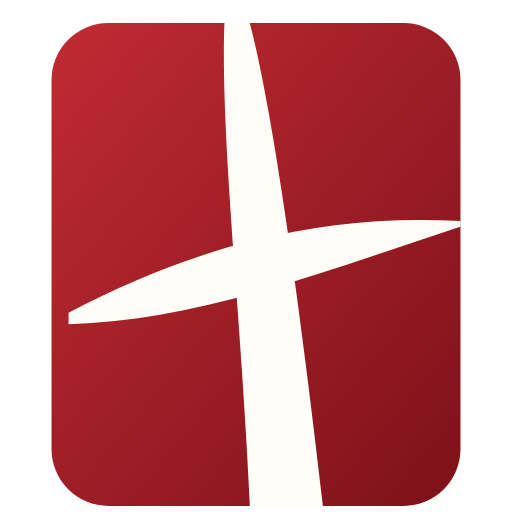
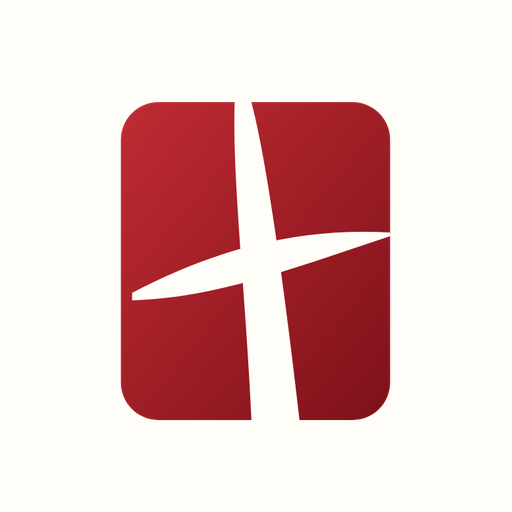
모두의 성경 1.0.17: 앱 아이콘 모두 새 모양으로

diff --git a/modu/sw.js b/modu/sw.js
@@ -2,7 +2,7 @@
    · 앱 껍데기(html·css·js·글꼴)는 판(version)마다 새 저장소에 담고 옛것은 지운다
    · 큰 자료(R2 의 성경·사전·지도·주석)는 한 번 받으면 오래 둔다 (자료 판이 바뀌면 주소가 바뀐다)
    · Supabase(로그인·메모)는 늘 네트워크 */
-var VERSION = '1.0.16';
+var VERSION = '1.0.17';
 var SHELL = 'modu-shell-' + VERSION, DATA = 'modu-data-v2';   /* v2: crossOrigin 없이 받아 둔 불투명 응답을 버린다 */
 var CORE = ['./', 'index.html', 'style.css', 'mobile.css', 'config.js', 'bridge.js', 'mobile.js', 'icon.png', 'manifest.webmanifest'];
 

diff --git a/modu/config.js b/modu/config.js
@@ -1,8 +1,8 @@
 window.MODU = {
- "version": "1.0.16",
+ "version": "1.0.17",
  "title": "2026 모두의 성경",
  "dataBase": "https://pub-0dda7b52b67649e18ba5569a006c564c.r2.dev/modu/d1/",
  "supabaseUrl": "https://cetacttsdwzxjzkyozgd.supabase.co",
  "anonKey": "sb_publishable_qfq4Hvs4tF_1ZIezPoMojg_h6XNw01G",
- "built": "2026-09-25T15:18:45.386Z"
+ "built": "2026-09-25T15:22:13.310Z"
 };
